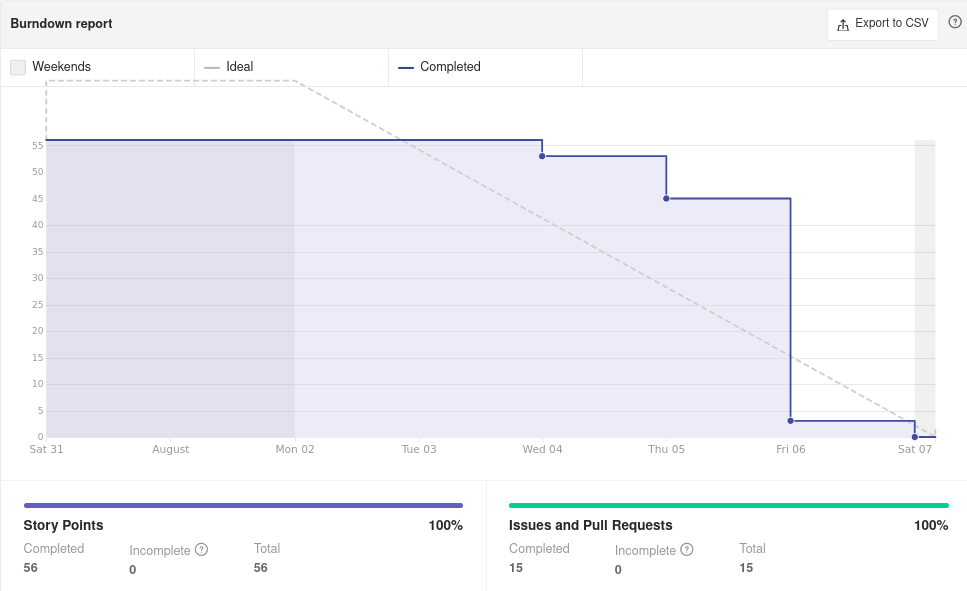
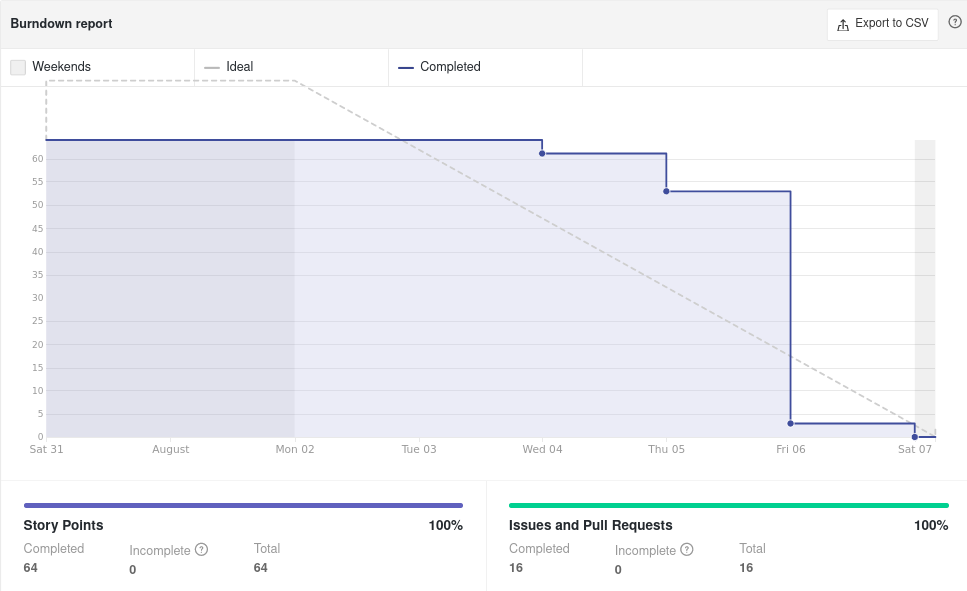
doc(#50) Corrigindo o burndown report apos adicionar a issue de debito tecnico.

diff --git a/docs/reunioes/sprints/review-sprint0.md b/docs/reunioes/sprints/review-sprint0.md
@@ -7,6 +7,11 @@
 **Duração:** 5 dias.<br>
  
 ## 2. Resultados
+
+### [**Issue : #17 Prototipação (Débito técnico)**](https://github.com/UnBArqDsw2021-1/2021.1_G6_Curumim/issues/17)
+ **Responsáveis: Mateus Oliveira**<br>
+ **Pontuação: 8**<br>
+ **Status: Concluída**<br>
  
 ### [**Issue : #18 Instalar Zenhub**](https://github.com/UnBArqDsw2021-1/2021.1_G6_Curumim/issues/18)
  **Responsáveis: Todos os integrantes**<br>
@@ -34,7 +39,7 @@
  **Status: Concluída**<br>
  
 ### [**Issue : #24 Plano de Riscos**](https://github.com/UnBArqDsw2021-1/2021.1_G6_Curumim/issues/24)
- **Responsáveis: Edson Araujo**<br>
+ **Responsáveis: Edson Soares**<br>
  **Pontuação: 5**<br>
  **Status: Concluída**<br>
  
@@ -73,7 +78,7 @@
  **Pontuação: 8**<br>
  **Status: Concluída**<br>
 
-### **Débitos técnicos**
+### **Débitos técnicos para a Sprint 1**
  - Finalização dos protótipos;
  - Criação do Storyboard final;
  - Complementar o iStar;
@@ -109,3 +114,4 @@
 |:-:|--|--|--|
 |0.1|07/08/2021| Revisão e Retrospectiva com os integrantes | Todos os integrantes |
 |1.0|11/08/2021| Abertura do documento | Eliseu Kadesh |
+|1.1|11/08/2021| Correções gerais no documento | Eliseu Kadesh |
